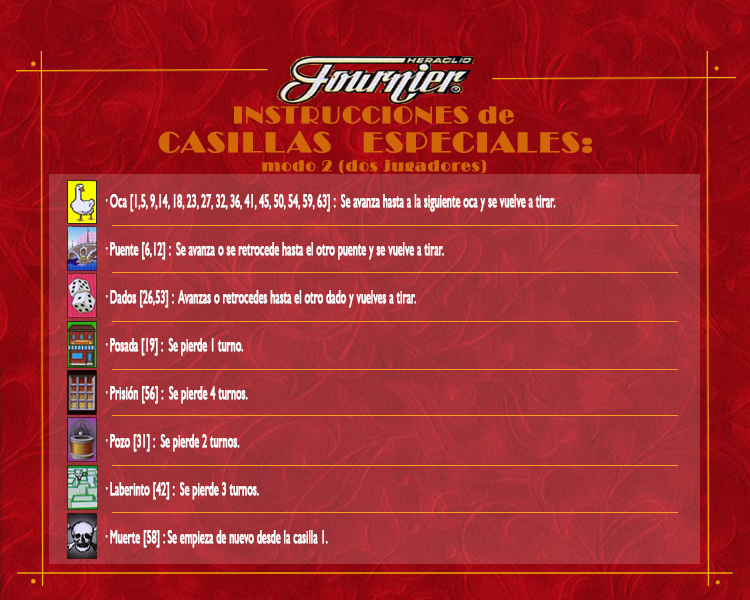
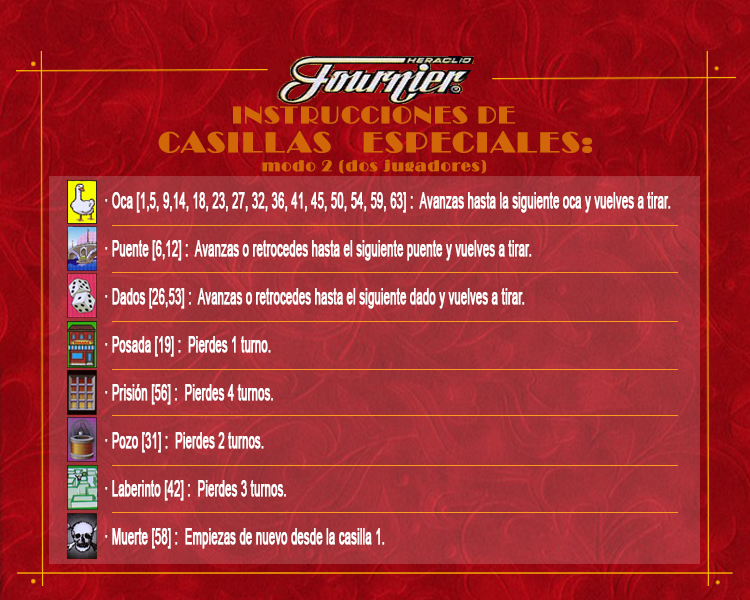
nuevas imagenes de los paneles de instrucciones actualizadas con una fuente mas visible

diff --git a/OcaGame/src/ReproductorSonido/ReproductorSonido.java b/OcaGame/src/ReproductorSonido/ReproductorSonido.java
@@ -38,7 +38,7 @@ public class ReproductorSonido extends Thread implements Hilo{
 
                 clip.open(inputStream);
 
-                clip.loop(Clip.LOOP_CONTINUOUSLY);
+                clip.loop(Clip.LOOP_CONTINUOUSLY); //Para que se repita la cancion infinitamente mientras el juego este abierto.
 
                 clip.start();
 
